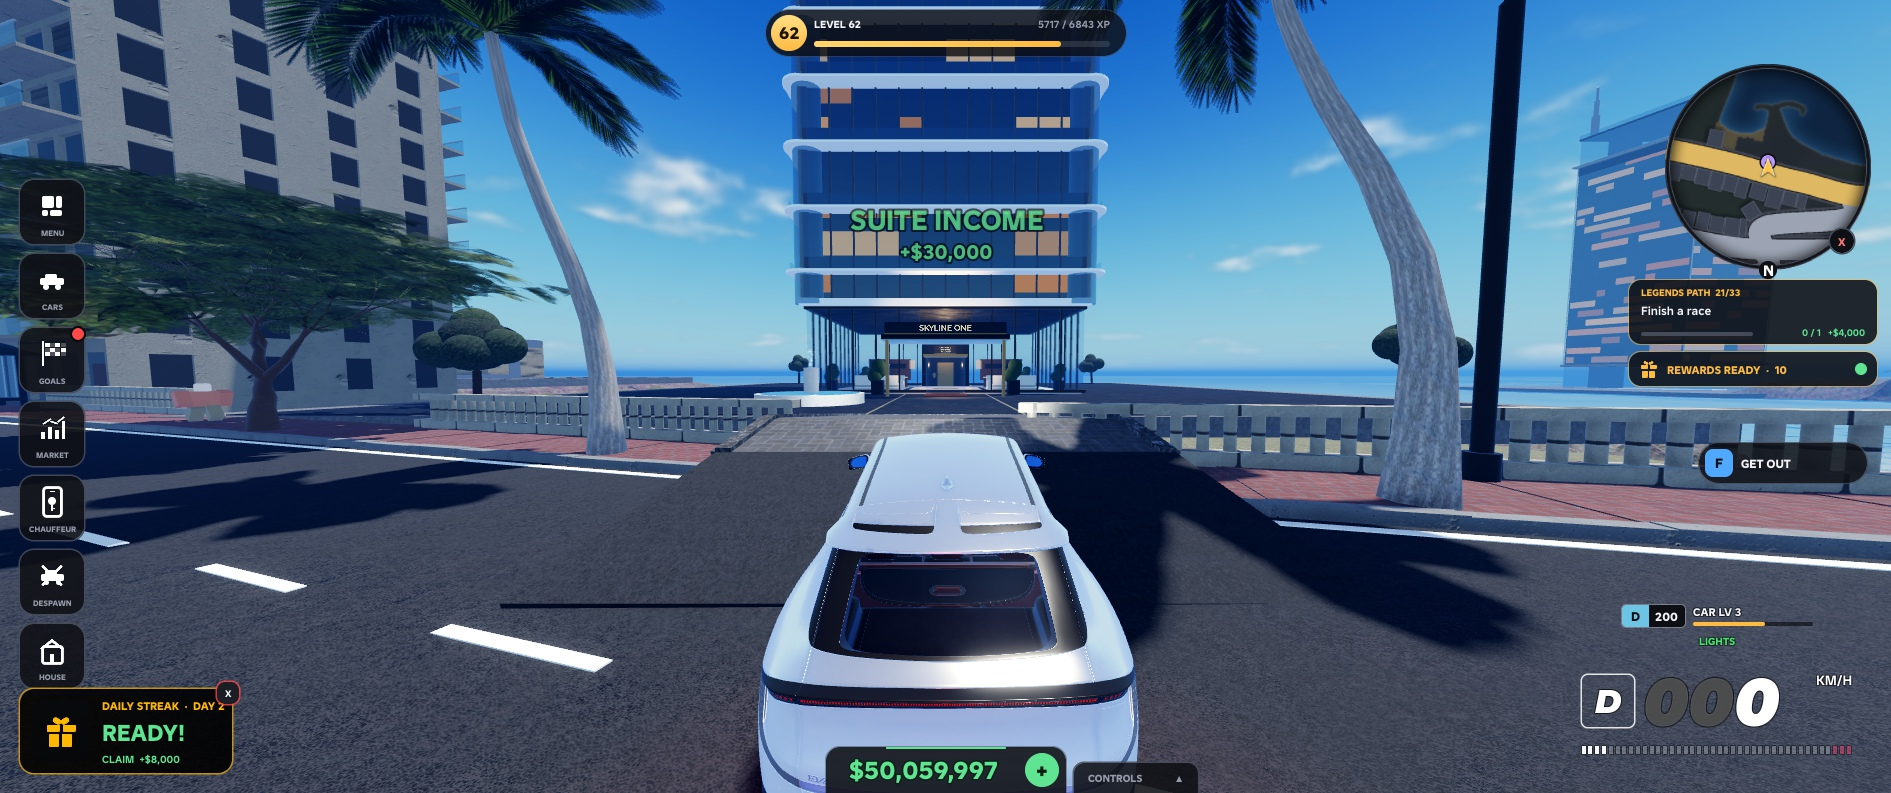
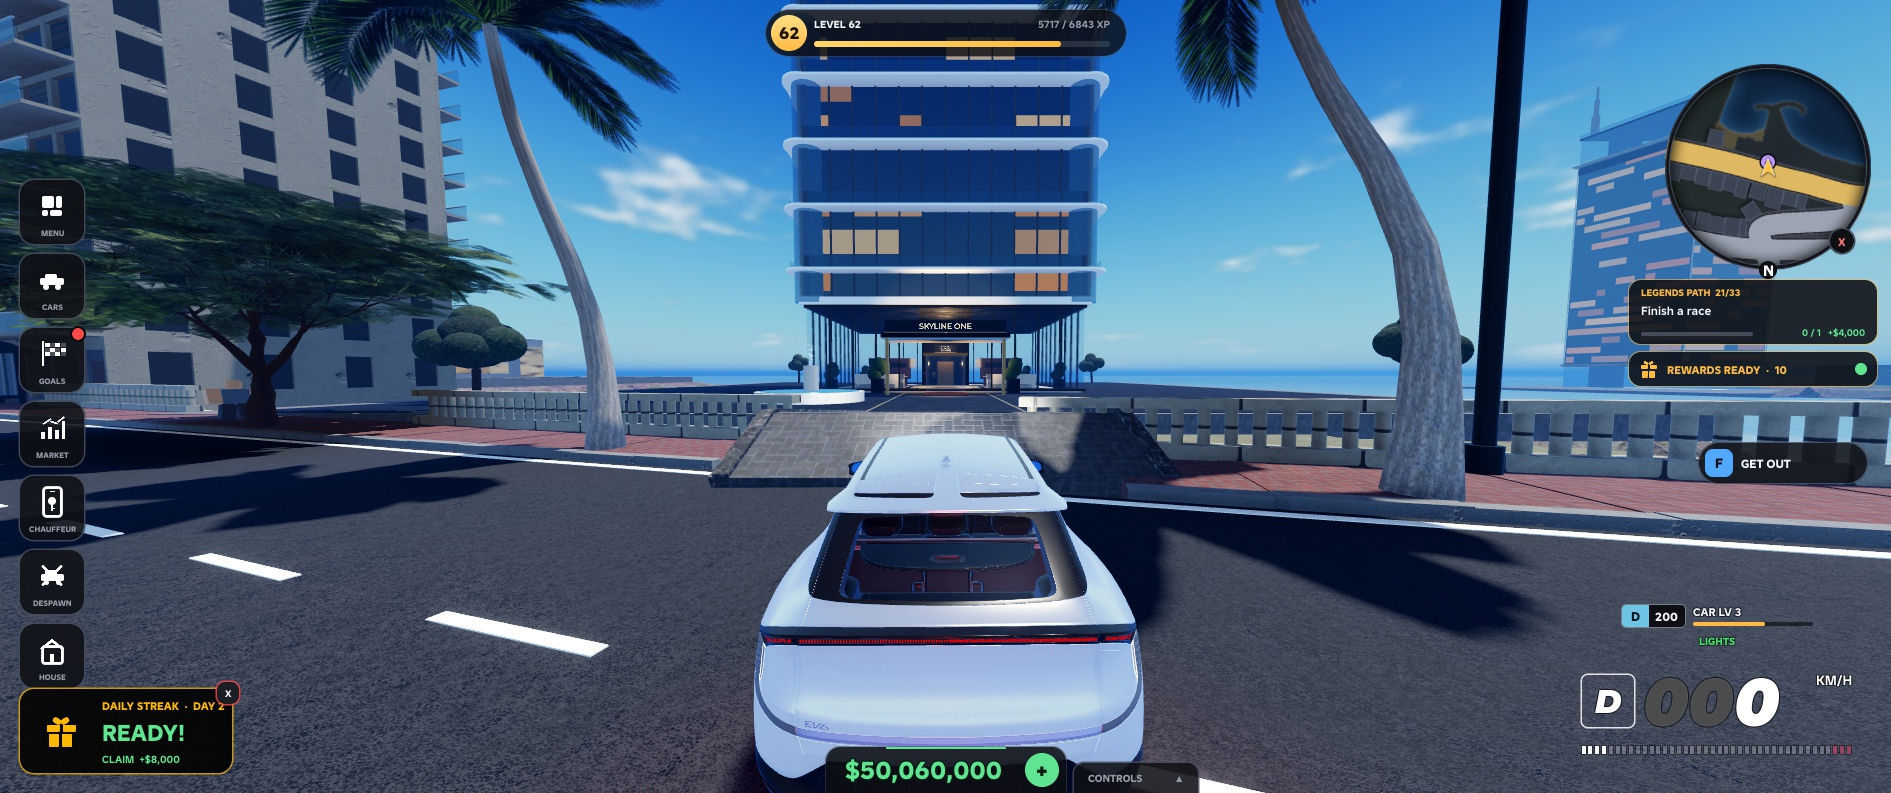
City Legends: venue ramps stop at the road's edge (nothing laid on the road, dropped kerbs, railings and ground cleared from the drive, jolts measured); Grand Hairpin Hotel with a door on the pavement, a free roof terrace over the bend and a fast travel spot; notes

diff --git a/City Legends/City Legends.md b/City Legends/City Legends.md
@@ -1121,6 +1121,7 @@ Owner: "I cant drive onto the parking of Skyline one and check for every venue i
 - **Were blocked, fixed:** Skyline One, Aurum Residences, The Crown: `EntranceRamp` from the road to the forecourt (`Towers.lua`). Legends Realty: a trench between the pavement and the lot (`Realty.lua`). Heist drop-off: it stood in a field, its marker 11 studs in the air, behind a 3-stud drop: now a paved pad (terrain) and a ramp (`Bank.lua`), [[Heist drop-off - paved pad.jpg]].
 - **The Crown's lot:** two house lots (`riv_high_11`, `riv_high_12`) lay across its forecourt, one 5.5 studs over it. Both are gone from `RivieraWorld.lua` (plates in `ServerStorage.HighwayHidden`): 45 lots now, 10 High. A player whose saved house was on one of those two has to place it again.
 - **Already fine:** bank, customs, dealer, hotel, Rewards, Gem Showcase.
+- **No ramp on the road (owner: "Dont make the ramp onto the road or else it look bad and affect driving"):** `EntranceRamp` now stops at the road's edge, level with the road, a dropped kerb: the kerb and pavement pieces across the drive are hidden, railings in the drive go, ground above the line is dug away. Nothing is laid on the road at any venue or the marina. Biggest jolt driving in at ~28 mph: Skyline 0.5, Aurum 0.2, Crown 1.3, hotel 0.9, marina 0.3. **Dealer's side drive:** the lot is 3 studs over the road there, so it's steep (3 studs in 10, jolt 8.9).
 
 ## Grand Hairpin (2026-11-04)
 Owner chose **option 1** for curved roads: meshes made in Blender, Import 3D by hand.
@@ -1130,4 +1131,5 @@ Owner chose **option 1** for curved roads: meshes made in Blender, Import 3D by 
 - **In the place now:** the old road there is in `HighwayHidden`; plain road slabs (no lines or kerbs) until the new meshes are in; invisible solid pavements, wall and island (`Grand Hairpin/Solid`); lanes through the bend (`hairpin_lanes.py`: same point count, links unchanged); ground; minimap; palms, lamps on the island and round the bend; the **Grand Hairpin Hotel** (`Dressing/GrandHairpin`, 580 parts, a curved 9-floor hotel behind the wall).
 - **After the import:** each MeshPart: `Size` = its box in `build/riviera/hairpin_parts.json`, `CFrame = CFrame.new(box centre) * CFrame.Angles(0, math.pi, 0)` (Import 3D scales by ~9 and turns it 180), no collision or query; move them to `Grand Hairpin/Meshes`; Road Asphalt 46,47,50; Lines SmoothPlastic; Pavement 176,104,92; KerbStone Concrete; KerbRed texture `rbxassetid://118839668403571`; Island Grass; Wall Limestone, `DoubleSided`; road slabs `Transparency = 1`.
 - **Checked:** lane test on the West Switchbacks: 0 holes, 0 kerbs, nothing in the lane. One step of 0.42 on lane 2 at the Terrace W1 Link's mouth (traffic doesn't use lane 2 there; players could feel it). Graph: no dead ends. The first import was driven through the bend with traffic.
-- **Not done:** apartment blocks round the bend, lit hotel windows at night, the night look, buses and hypercars through it, side-by-side pictures.
+- **The hotel you can view it from (owner: "add a new hotel near the hairpin as you can view the hair pin from the hotel"):** the Grand Hairpin Hotel's door is on the pavement at the outside of the bend, with a canopy and sign (`src/server/HairpinHotel.lua`, E, on foot). It takes you to a free roof terrace 130 studs over the bend with glass rails, benches and planters; the door up there brings you back. Fast travel: **Grand Hairpin Hotel**. [[Grand Hairpin Hotel - view from the terrace.jpg]]
+- **Not done:** apartment blocks round the bend, rooms in the hotel, lit hotel windows at night, the night look, buses and hypercars through it, side-by-side pictures.
